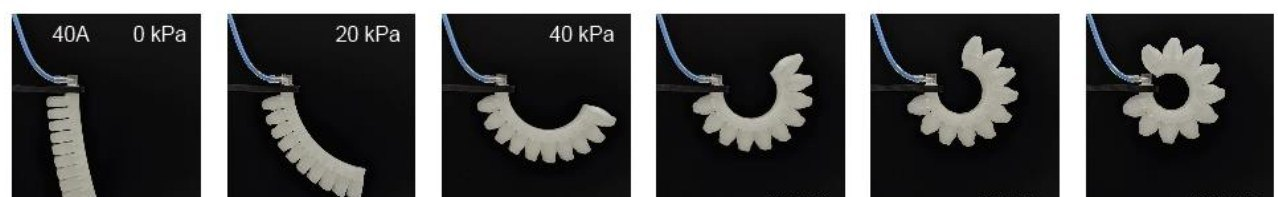
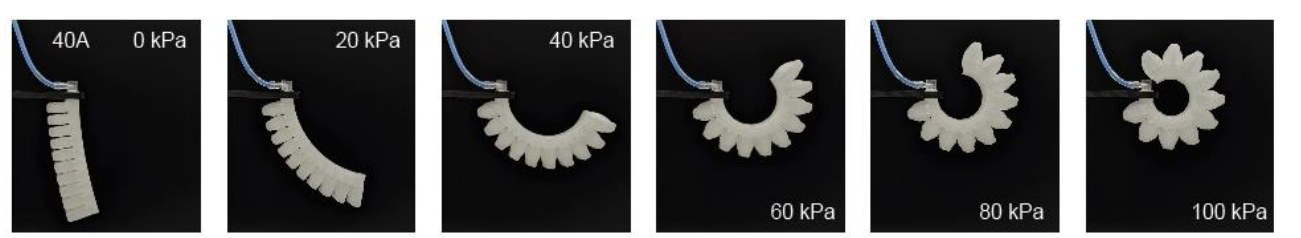
update

diff --git a/teaching.html b/teaching.html
@@ -1,0 +1,127 @@
+<!DOCTYPE html>
+<html lang="en">
+<head>
+<meta charset="utf-8">
+<meta name="color-scheme" content="light">
+<meta name="viewport" content="width=device-width, initial-scale=1">
+<title>Teaching and Outreach | Ariana Olivares</title>
+<meta name="description" content="Teaching and outreach experience of Ariana Olivares.">
+<link rel="preconnect" href="https://fonts.googleapis.com">
+<link rel="preconnect" href="https://fonts.gstatic.com" crossorigin>
+<link href="https://fonts.googleapis.com/css2?family=Source+Serif+4:opsz,wght@8..60,600;8..60,700&display=swap" rel="stylesheet">
+<link rel="stylesheet" href="style.css">
+</head>
+<body>
+
+<div class="banner">
+  <img src="banner.jpg" alt="">
+  <span class="banner-caption">Machu Picchu, Peru</span>
+</div>
+
+<div class="layout">
+
+  <aside class="sidebar" aria-label="Profile">
+    <div class="sidebar-inner">
+      <img class="photo" src="profile.jpg" alt="Portrait of Ariana Olivares" width="600" height="600">
+      <div>
+        <p class="side-name">Ariana Olivares</p>
+        <p class="side-role">M.S. Student, Mechanical Engineering<br>Tufts University</p>
+      </div>
+      <ul class="side-links">
+        <li><svg viewBox="0 0 24 24" aria-hidden="true"><path d="M12 2a7 7 0 0 0-7 7c0 5.25 7 13 7 13s7-7.75 7-13a7 7 0 0 0-7-7zm0 9.5A2.5 2.5 0 1 1 12 6.5a2.5 2.5 0 0 1 0 5z"/></svg><span>Medford, MA · Madrid, Spain</span></li>
+        <li><svg viewBox="0 0 24 24" aria-hidden="true"><path d="M3 5h18a1 1 0 0 1 1 1v12a1 1 0 0 1-1 1H3a1 1 0 0 1-1-1V6a1 1 0 0 1 1-1zm9 7.2L4 7.3V17h16V7.3l-8 4.9z"/></svg><a href="mailto:ariana.olivares@tufts.edu">ariana.olivares@tufts.edu</a></li>
+        <!-- Phone: replace the number and remove the comment markers to show it
+        <li><svg viewBox="0 0 24 24" aria-hidden="true"><path d="M6.6 10.8a15.1 15.1 0 0 0 6.6 6.6l2.2-2.2a1 1 0 0 1 1-.25 11.4 11.4 0 0 0 3.6.57 1 1 0 0 1 1 1V20a1 1 0 0 1-1 1A17 17 0 0 1 3 4a1 1 0 0 1 1-1h3.5a1 1 0 0 1 1 1c0 1.25.2 2.45.57 3.57a1 1 0 0 1-.25 1L6.6 10.8z"/></svg><a href="tel:+10000000000">(000) 000-0000</a></li>
+        -->
+        <li><svg viewBox="0 0 24 24" aria-hidden="true"><path d="M6 2h8l6 6v13a1 1 0 0 1-1 1H6a1 1 0 0 1-1-1V3a1 1 0 0 1 1-1zm7 1.5V9h5.5L13 3.5zM8 13v1.5h8V13H8zm0 3.5V18h8v-1.5H8z"/></svg><a href="cv.pdf">CV</a></li>
+        <li><svg viewBox="0 0 24 24" aria-hidden="true"><path d="M20.45 20.45h-3.56v-5.57c0-1.33-.02-3.04-1.85-3.04-1.86 0-2.14 1.45-2.14 2.94v5.67H9.35V9h3.41v1.56h.05c.48-.9 1.64-1.85 3.37-1.85 3.6 0 4.27 2.37 4.27 5.46v6.28zM5.34 7.43a2.06 2.06 0 1 1 0-4.13 2.06 2.06 0 0 1 0 4.13zM7.12 20.45H3.56V9h3.56v11.45zM22.22 0H1.77C.79 0 0 .77 0 1.73v20.54C0 23.23.79 24 1.77 24h20.45c.98 0 1.78-.77 1.78-1.73V1.73C24 .77 23.2 0 22.22 0z"/></svg><a href="https://www.linkedin.com/in/ariana-olivares-698549185">LinkedIn</a></li>
+      </ul>
+      <nav class="site-nav" aria-label="Site">
+        <ul>
+          <li><a href="index.html">Home</a></li>
+          <li><a href="research.html">Research</a></li>
+          <li><a href="projects.html">Projects</a></li>
+          <li><a href="teaching.html" aria-current="page">Teaching</a></li>
+          <li><a href="cv.pdf">CV</a></li>
+        </ul>
+      </nav>
+    </div>
+  </aside>
+
+  <main>
+    <h1>Teaching and outreach</h1>
+    <p class="lede">I have taught and mentored students from middle school through senior capstone, with a focus on hands-on, accessible engineering education.</p>
+
+    <section id="teaching-experience">
+      <h2>Teaching</h2>
+
+      <article class="entry" id="capstone-ta">
+        <div class="when">Sept 2026–<br>present</div>
+        <div>
+          <span class="tag">Teaching Assistant</span>
+          <h3>Senior Capstone Design</h3>
+          <p class="where">Department of Mechanical Engineering, Tufts University. Instructor: Prof. Briana Bouchard.</p>
+          <p>Advise 40 students on senior capstone teams through the full design cycle, from defining requirements and selecting concepts to prototyping, testing, and final design reviews. I give technical feedback on CAD models, engineering drawings, analyses, and fabrication plans, drawing on my own hands-on experience with CNC machining, 3D printing, and mechanical testing. Having completed this course myself the year before, I can speak directly to the challenges teams face when working with real clients.</p>
+        </div>
+      </article>
+
+      <article class="entry" id="design-la">
+        <div class="when">Jan–May 2025</div>
+        <div>
+          <span class="tag">Learning Assistant</span>
+          <h3>Engineering Design</h3>
+          <p class="where">Department of Mechanical Engineering, Tufts University. Instructor: Prof. Kristen Wendell.</p>
+          <p>Supported students in the department’s engineering design course as they worked through design projects, from early concepts to prototypes.</p>
+        </div>
+      </article>
+
+      <article class="entry" id="manufacturing-la">
+        <div class="when">Sept–Dec 2024</div>
+        <div>
+          <span class="tag">Learning Assistant</span>
+          <h3>Materials and Manufacturing</h3>
+          <p class="where">Department of Mechanical Engineering, Tufts University. Instructor: Prof. Luisa Chiesa.</p>
+          <p>Guided students through CNC machining, laser cutting, and 3D printing, and supervised more than 15 final manufacturing projects from concept through assembly. Completed Tufts’ Seminar for Learning Assistants in STEM alongside the role.</p>
+        </div>
+      </article>
+    </section>
+
+    <section id="outreach">
+      <h2>Outreach and leadership</h2>
+
+      <article class="entry" id="breakthrough">
+        <div class="when">June–Aug 2026</div>
+        <div>
+          <span class="tag">Teaching Fellow</span>
+          <h3>Breakthrough San Francisco</h3>
+          <p>Taught two sections of 7th grade math with a teaching partner, designing and delivering lessons on financial literacy, proportional reasoning, and mathematical problem solving. I also led a daily advisory of five middle school students, mentoring them through goal setting, relationship building, and academic support.</p>
+        </div>
+      </article>
+
+      <article class="entry" id="ceeo">
+        <div class="when">May 2023–<br>present</div>
+        <div>
+          <span class="tag">Learning Fellow</span>
+          <h3>Center for Engineering Education and Outreach (CEEO), Tufts University</h3>
+          <p>Teach engineering design, robotics, and programming to more than 100 K–8 students through hands-on activities that build early confidence in STEM. I develop weekly lesson plans and interactive STEM modules tailored to different learning levels, using accessible materials to introduce mechanical design concepts.</p>
+        </div>
+      </article>
+
+      <article class="entry" id="shpe">
+        <div class="when"><!-- Add dates --></div>
+        <div>
+          <span class="tag">Corporate Liaison</span>
+          <h3>Society of Hispanic Professional Engineers (SHPE), Tufts Chapter</h3>
+        </div>
+      </article>
+    </section>
+  </main>
+
+</div>
+
+<footer>
+  © 2026 Ariana Olivares. Last updated October 2026.
+</footer>
+
+</body>
+</html>

diff --git a/projects.html b/projects.html
@@ -28,7 +28,7 @@
         <p class="side-role">M.S. Student, Mechanical Engineering<br>Tufts University</p>
       </div>
       <ul class="side-links">
-        <li><svg viewBox="0 0 24 24" aria-hidden="true"><path d="M12 2a7 7 0 0 0-7 7c0 5.25 7 13 7 13s7-7.75 7-13a7 7 0 0 0-7-7zm0 9.5A2.5 2.5 0 1 1 12 6.5a2.5 2.5 0 0 1 0 5z"/></svg><span>Medford, MA<br>Madrid, Spain</span></li>
+        <li><svg viewBox="0 0 24 24" aria-hidden="true"><path d="M12 2a7 7 0 0 0-7 7c0 5.25 7 13 7 13s7-7.75 7-13a7 7 0 0 0-7-7zm0 9.5A2.5 2.5 0 1 1 12 6.5a2.5 2.5 0 0 1 0 5z"/></svg><span>Medford, MA · Madrid, Spain</span></li>
         <li><svg viewBox="0 0 24 24" aria-hidden="true"><path d="M3 5h18a1 1 0 0 1 1 1v12a1 1 0 0 1-1 1H3a1 1 0 0 1-1-1V6a1 1 0 0 1 1-1zm9 7.2L4 7.3V17h16V7.3l-8 4.9z"/></svg><a href="mailto:ariana.olivares@tufts.edu">ariana.olivares@tufts.edu</a></li>
         <!-- Phone: replace the number and remove the comment markers to show it
         <li><svg viewBox="0 0 24 24" aria-hidden="true"><path d="M6.6 10.8a15.1 15.1 0 0 0 6.6 6.6l2.2-2.2a1 1 0 0 1 1-.25 11.4 11.4 0 0 0 3.6.57 1 1 0 0 1 1 1V20a1 1 0 0 1-1 1A17 17 0 0 1 3 4a1 1 0 0 1 1-1h3.5a1 1 0 0 1 1 1c0 1.25.2 2.45.57 3.57a1 1 0 0 1-.25 1L6.6 10.8z"/></svg><a href="tel:+10000000000">(000) 000-0000</a></li>
@@ -41,6 +41,7 @@
           <li><a href="index.html">Home</a></li>
           <li><a href="research.html">Research</a></li>
           <li><a href="projects.html" aria-current="page">Projects</a></li>
+          <li><a href="teaching.html">Teaching</a></li>
           <li><a href="cv.pdf">CV</a></li>
         </ul>
       </nav>

diff --git a/index.html b/index.html
@@ -28,7 +28,7 @@
         <p class="side-role">M.S. Student, Mechanical Engineering<br>Tufts University</p>
       </div>
       <ul class="side-links">
-        <li><svg viewBox="0 0 24 24" aria-hidden="true"><path d="M12 2a7 7 0 0 0-7 7c0 5.25 7 13 7 13s7-7.75 7-13a7 7 0 0 0-7-7zm0 9.5A2.5 2.5 0 1 1 12 6.5a2.5 2.5 0 0 1 0 5z"/></svg><span>Medford, MA<br>Madrid, Spain</span></li>
+        <li><svg viewBox="0 0 24 24" aria-hidden="true"><path d="M12 2a7 7 0 0 0-7 7c0 5.25 7 13 7 13s7-7.75 7-13a7 7 0 0 0-7-7zm0 9.5A2.5 2.5 0 1 1 12 6.5a2.5 2.5 0 0 1 0 5z"/></svg><span>Medford, MA · Madrid, Spain</span></li>
         <li><svg viewBox="0 0 24 24" aria-hidden="true"><path d="M3 5h18a1 1 0 0 1 1 1v12a1 1 0 0 1-1 1H3a1 1 0 0 1-1-1V6a1 1 0 0 1 1-1zm9 7.2L4 7.3V17h16V7.3l-8 4.9z"/></svg><a href="mailto:ariana.olivares@tufts.edu">ariana.olivares@tufts.edu</a></li>
         <!-- Phone: replace the number and remove the comment markers to show it
         <li><svg viewBox="0 0 24 24" aria-hidden="true"><path d="M6.6 10.8a15.1 15.1 0 0 0 6.6 6.6l2.2-2.2a1 1 0 0 1 1-.25 11.4 11.4 0 0 0 3.6.57 1 1 0 0 1 1 1V20a1 1 0 0 1-1 1A17 17 0 0 1 3 4a1 1 0 0 1 1-1h3.5a1 1 0 0 1 1 1c0 1.25.2 2.45.57 3.57a1 1 0 0 1-.25 1L6.6 10.8z"/></svg><a href="tel:+10000000000">(000) 000-0000</a></li>

diff --git a/research.html b/research.html
@@ -28,7 +28,7 @@
         <p class="side-role">M.S. Student, Mechanical Engineering<br>Tufts University</p>
       </div>
       <ul class="side-links">
-        <li><svg viewBox="0 0 24 24" aria-hidden="true"><path d="M12 2a7 7 0 0 0-7 7c0 5.25 7 13 7 13s7-7.75 7-13a7 7 0 0 0-7-7zm0 9.5A2.5 2.5 0 1 1 12 6.5a2.5 2.5 0 0 1 0 5z"/></svg><span>Medford, MA<br>Madrid, Spain</span></li>
+        <li><svg viewBox="0 0 24 24" aria-hidden="true"><path d="M12 2a7 7 0 0 0-7 7c0 5.25 7 13 7 13s7-7.75 7-13a7 7 0 0 0-7-7zm0 9.5A2.5 2.5 0 1 1 12 6.5a2.5 2.5 0 0 1 0 5z"/></svg><span>Medford, MA · Madrid, Spain</span></li>
         <li><svg viewBox="0 0 24 24" aria-hidden="true"><path d="M3 5h18a1 1 0 0 1 1 1v12a1 1 0 0 1-1 1H3a1 1 0 0 1-1-1V6a1 1 0 0 1 1-1zm9 7.2L4 7.3V17h16V7.3l-8 4.9z"/></svg><a href="mailto:ariana.olivares@tufts.edu">ariana.olivares@tufts.edu</a></li>
         <!-- Phone: replace the number and remove the comment markers to show it
         <li><svg viewBox="0 0 24 24" aria-hidden="true"><path d="M6.6 10.8a15.1 15.1 0 0 0 6.6 6.6l2.2-2.2a1 1 0 0 1 1-.25 11.4 11.4 0 0 0 3.6.57 1 1 0 0 1 1 1V20a1 1 0 0 1-1 1A17 17 0 0 1 3 4a1 1 0 0 1 1-1h3.5a1 1 0 0 1 1 1c0 1.25.2 2.45.57 3.57a1 1 0 0 1-.25 1L6.6 10.8z"/></svg><a href="tel:+10000000000">(000) 000-0000</a></li>
